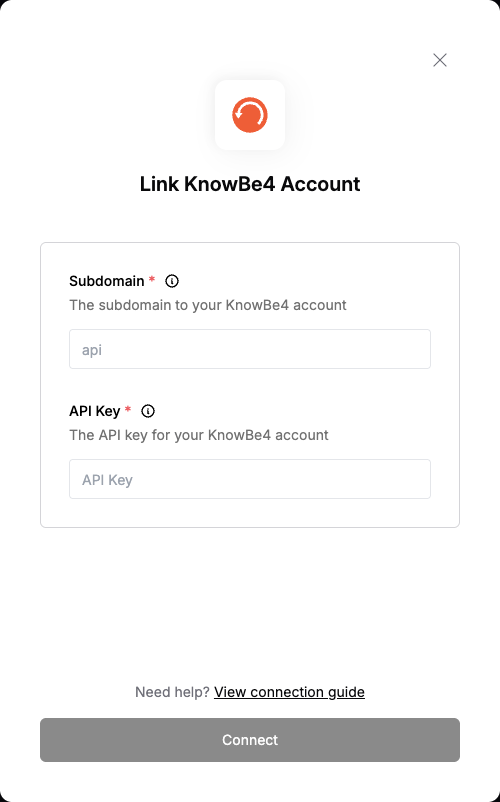
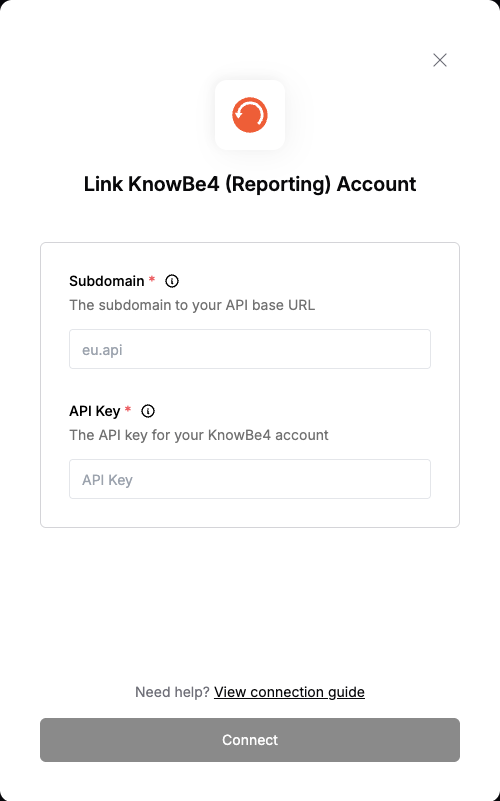
feat(integrations): add support for setmore (#4337)
##  Describe the problem and your solution

- Add support for Setmore 

<!-- Issue ticket number and link (if applicable) -->

<!-- Testing instructions (skip if just adding/editing providers) -->

<!-- Summary by @propel-code-bot -->

---

This PR delivers first-class support for Setmore by introducing a new
provider integration, comprehensive documentation, connection guides,
user-facing assets, and backend enhancements to handle dynamic
credential interpolation for token URLs in two-step auth flows. The
update enables configuration, authentication, and connection of Setmore
accounts through the platform, aligning with other supported
integrations and expanding the extensibility of the provider system to
accommodate Setmore's unique API access methodology.

<details>
<summary><strong>Key Changes</strong></summary>

• Added 'setmore' provider block to providers.yaml with TWO_STEP
authentication, dynamic credential handling, and full credential schema.
• Created detailed documentation and connection guides for Setmore (mdx
files and navigation updates in mint.json).
• Added Setmore branding asset for use in UI templates.
• Enhanced connection.service.ts to interpolate credentials in token
URLs at runtime, supporting use cases like Setmore's API flow.
• Minor unrelated corrections: KnowBe4 documentation subdomain mapping
and Azure/Klipfolio examples adjusted.

</details>

<details>
<summary><strong>Affected Areas</strong></summary>

• providers.yaml (provider registry)
[…]

diff --git a/packages/shared/lib/services/connection.service.ts b/packages/shared/lib/services/connection.service.ts
@@ -1112,7 +1112,9 @@ class ConnectionService {
         connectionConfig: Record<string, string>
     ): Promise<ServiceResponse<TwoStepCredentials>> {
         const strippedTokenUrl = typeof provider.token_url === 'string' ? provider.token_url.replace(/connectionConfig\./g, '') : '';
-        const url = new URL(interpolateString(strippedTokenUrl, connectionConfig)).toString();
+        const urlWithConnectionConfig = interpolateString(strippedTokenUrl, connectionConfig);
+        const strippedCredentialsUrl = urlWithConnectionConfig.replace(/credentials\./g, '');
+        const url = new URL(interpolateString(strippedCredentialsUrl, dynamicCredentials)).toString();
 
         const bodyFormat = provider.body_format || 'json';
 
